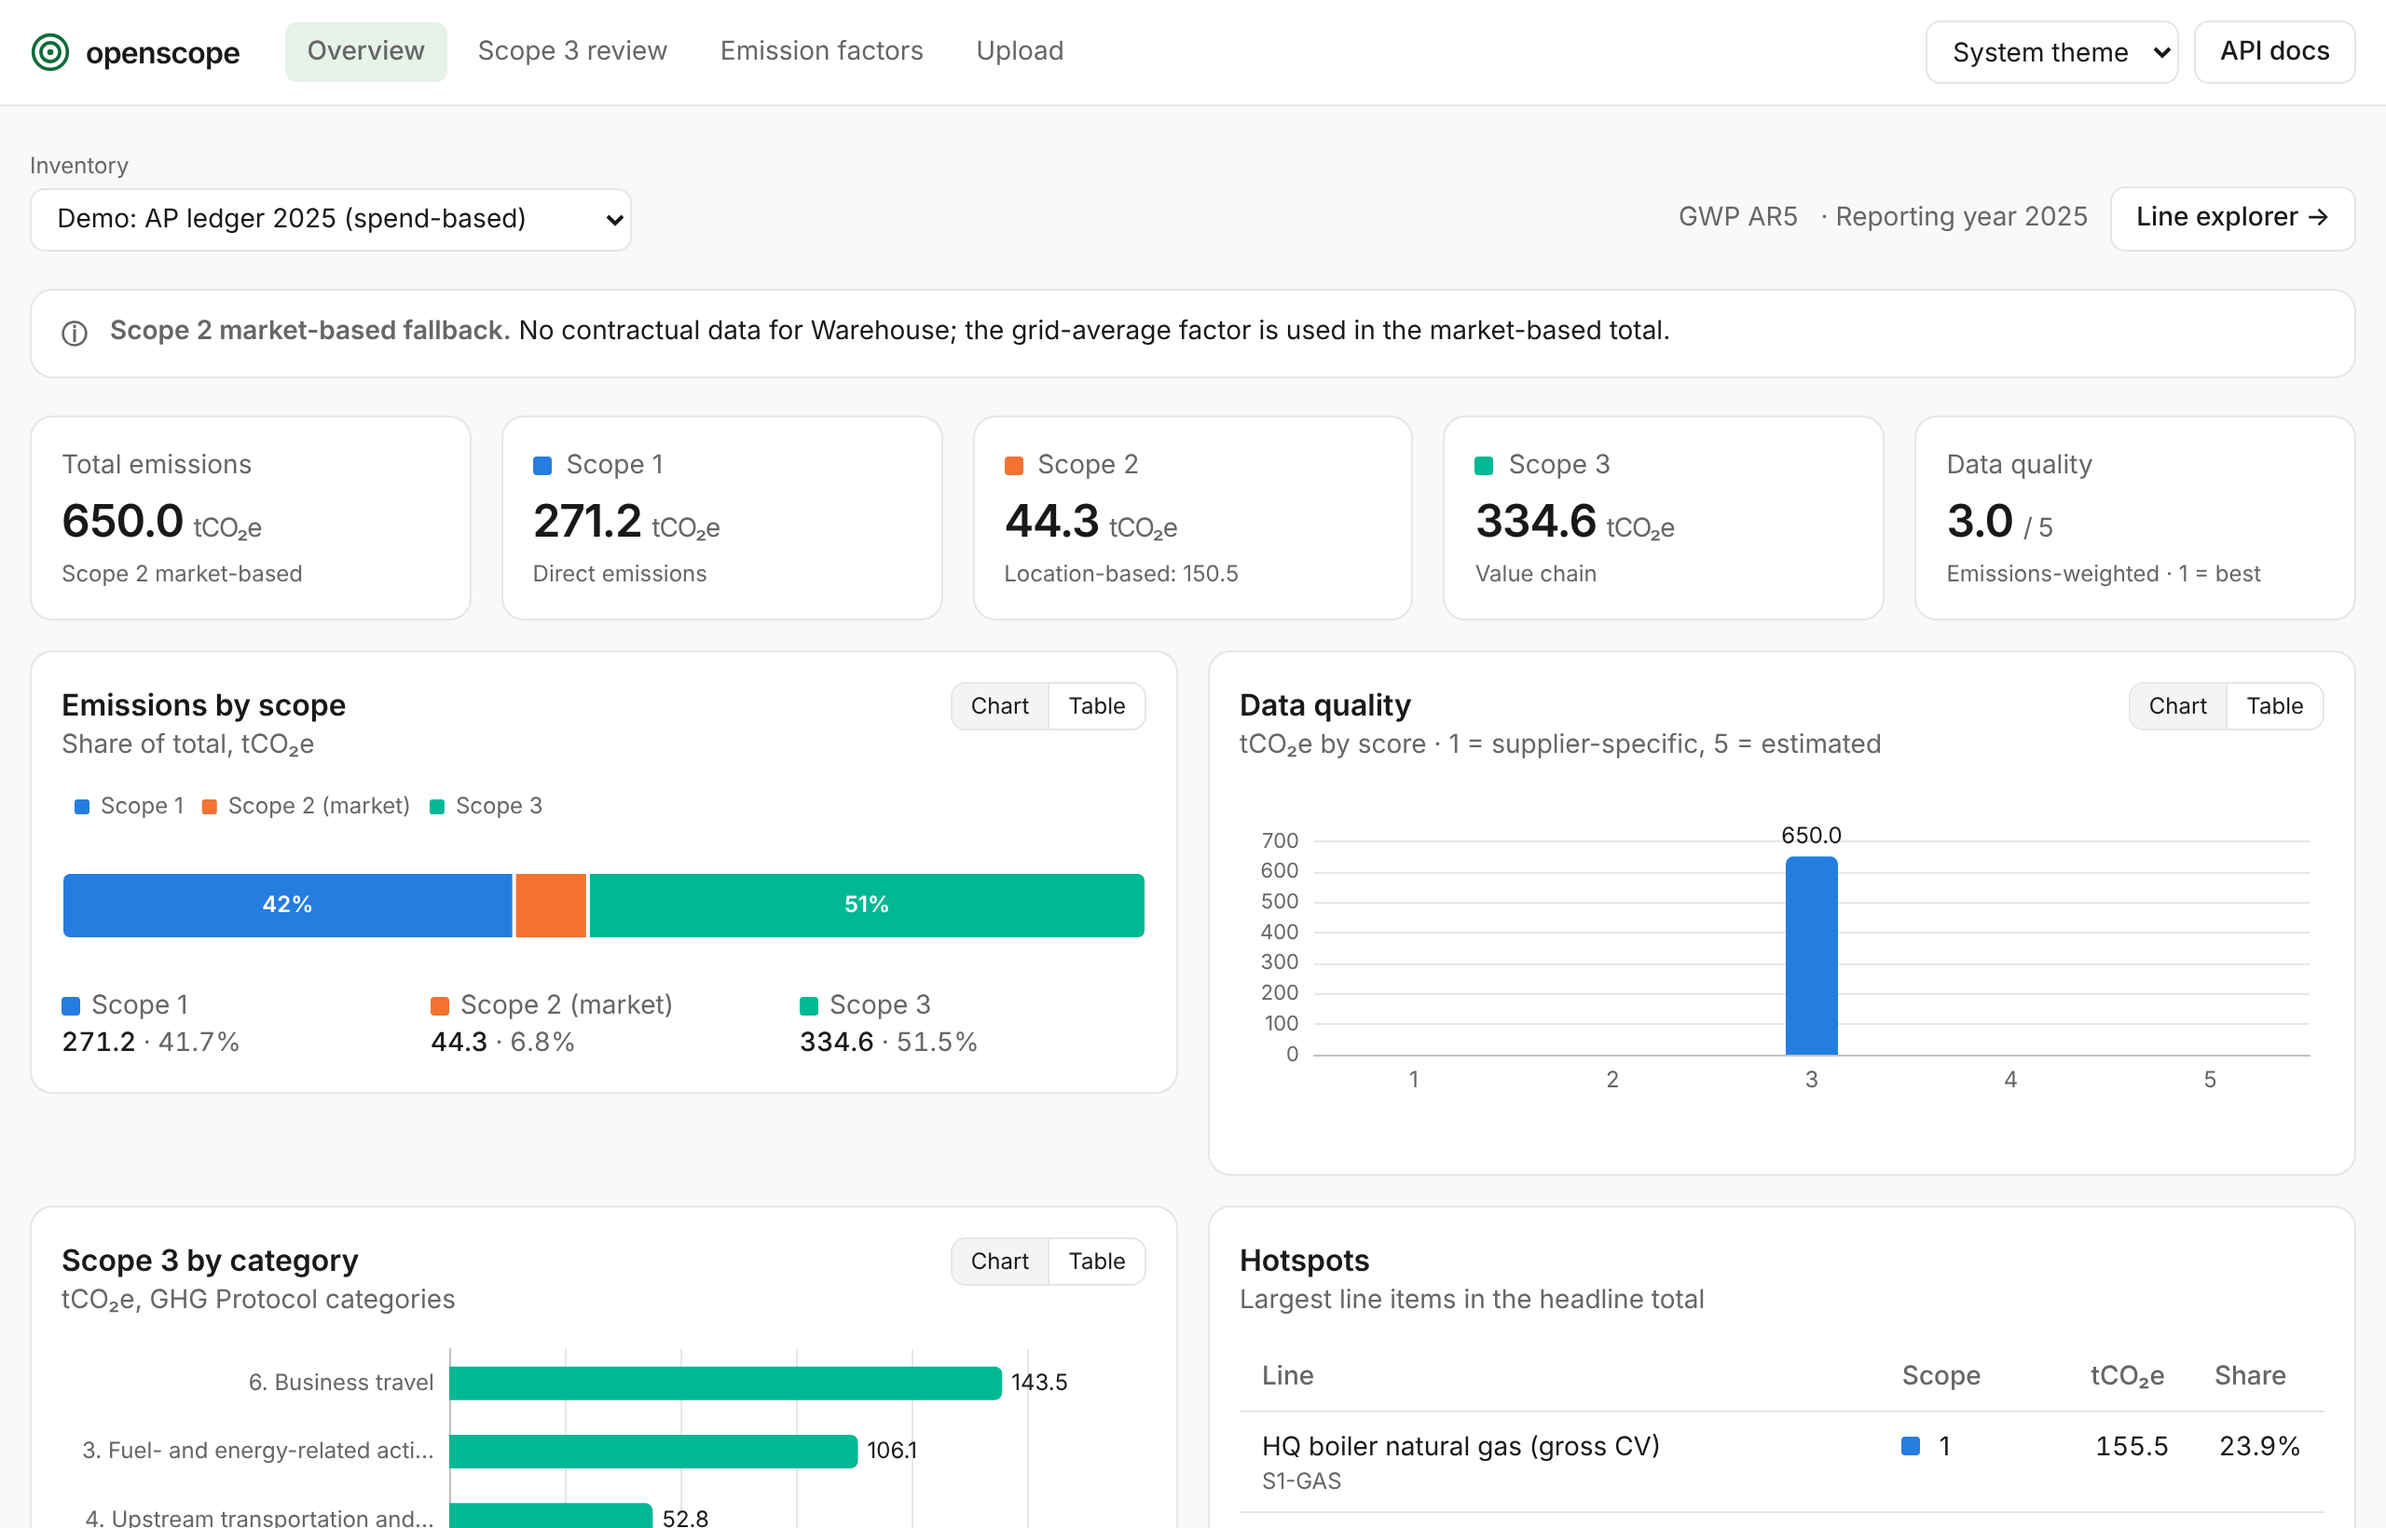
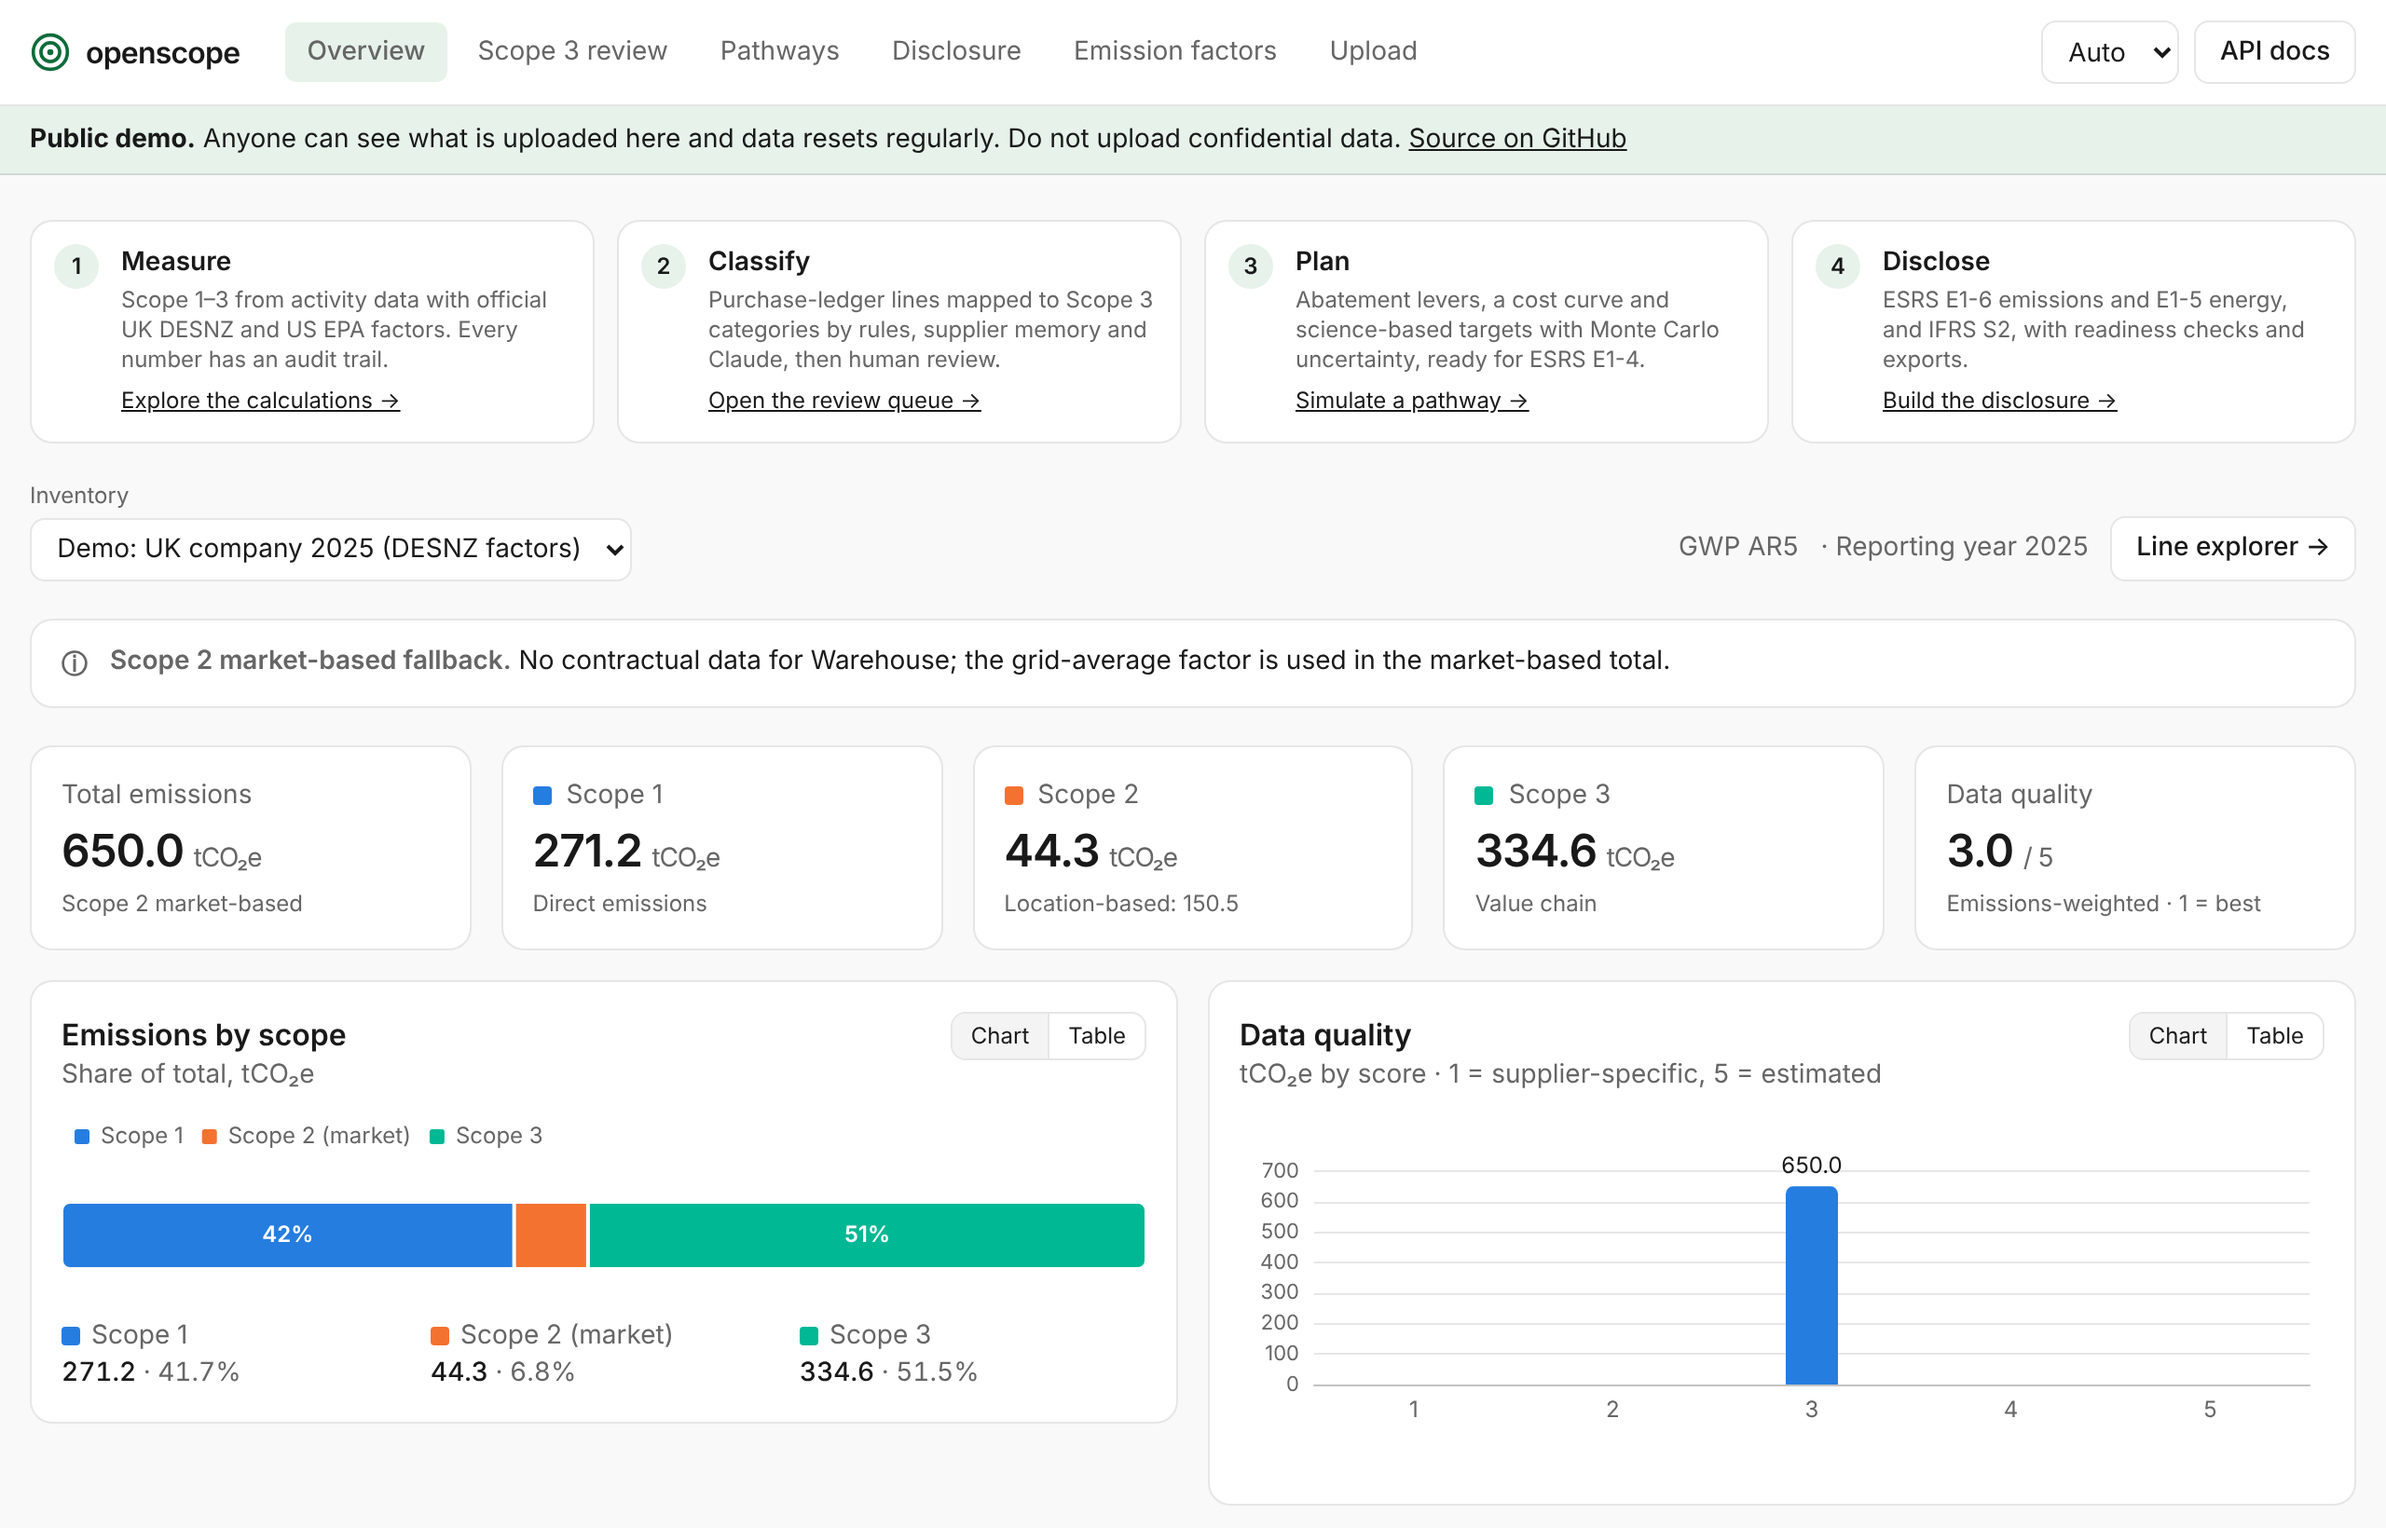
Refresh dashboard screenshots; update workflow and disclosure copy for E1-4 and E1-5

diff --git a/web/src/app/shared/ui.ts b/web/src/app/shared/ui.ts
@@ -170,13 +170,13 @@ export class HowItWorks {
     },
     {
       title: 'Plan',
-      text: 'Abatement levers, a cost curve and science-based targets, with Monte Carlo uncertainty.',
+      text: 'Abatement levers, a cost curve and science-based targets with Monte Carlo uncertainty, ready for ESRS E1-4.',
       link: '/pathways',
       cta: 'Simulate a pathway →',
     },
     {
       title: 'Disclose',
-      text: 'ESRS E1-6 and IFRS S2 emissions tables with readiness checks and exports.',
+      text: 'ESRS E1-6 emissions and E1-5 energy, and IFRS S2, with readiness checks and exports.',
       link: '/disclosure',
       cta: 'Build the disclosure →',
     },

diff --git a/web/src/app/pages/disclosure.ts b/web/src/app/pages/disclosure.ts
@@ -32,7 +32,8 @@ const n1 = new Intl.NumberFormat('en-GB', { minimumFractionDigits: 1, maximumFra
         <div>
           <h1 class="text-xl font-semibold">Climate disclosure</h1>
           <p class="text-sm text-muted">
-            GHG emissions tables for ESRS E1-6 and IFRS S2 §29(a), with readiness checks.
+            ESRS E1-6 emissions and E1-5 energy, or IFRS S2 §29(a), with readiness checks. E1-4
+            targets are on the Pathways page.
           </p>
         </div>
         <div
